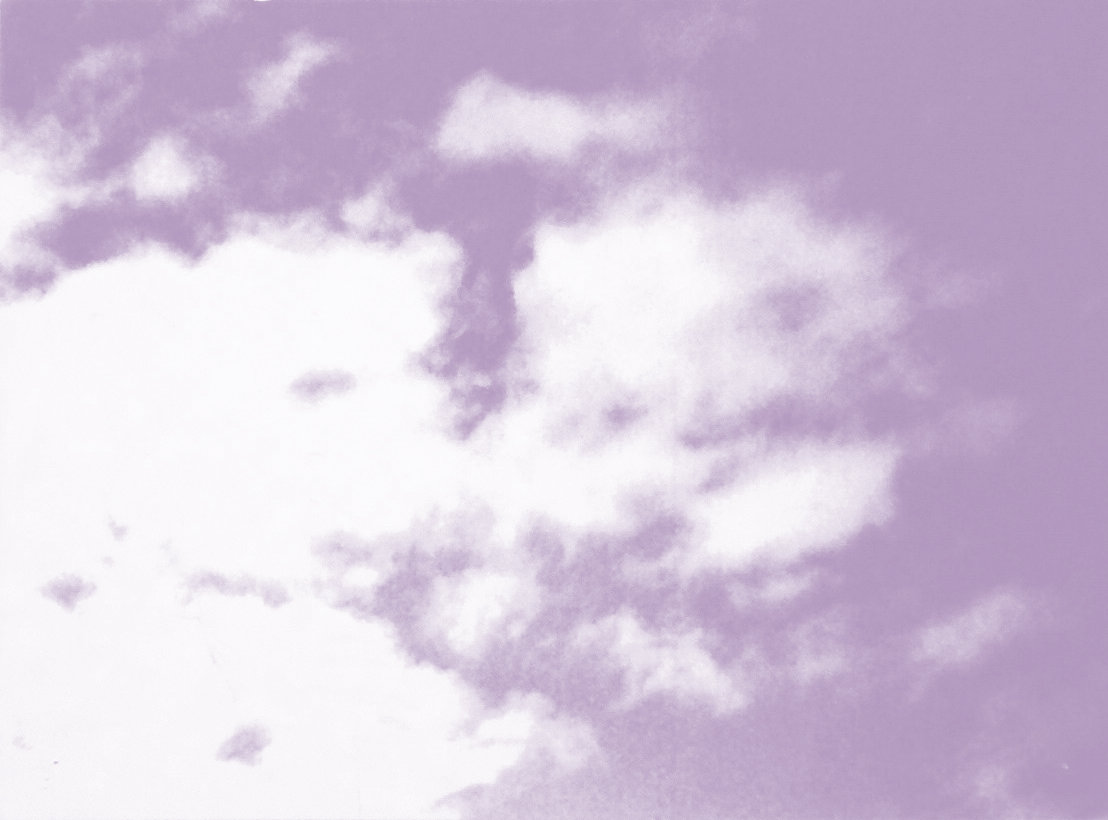
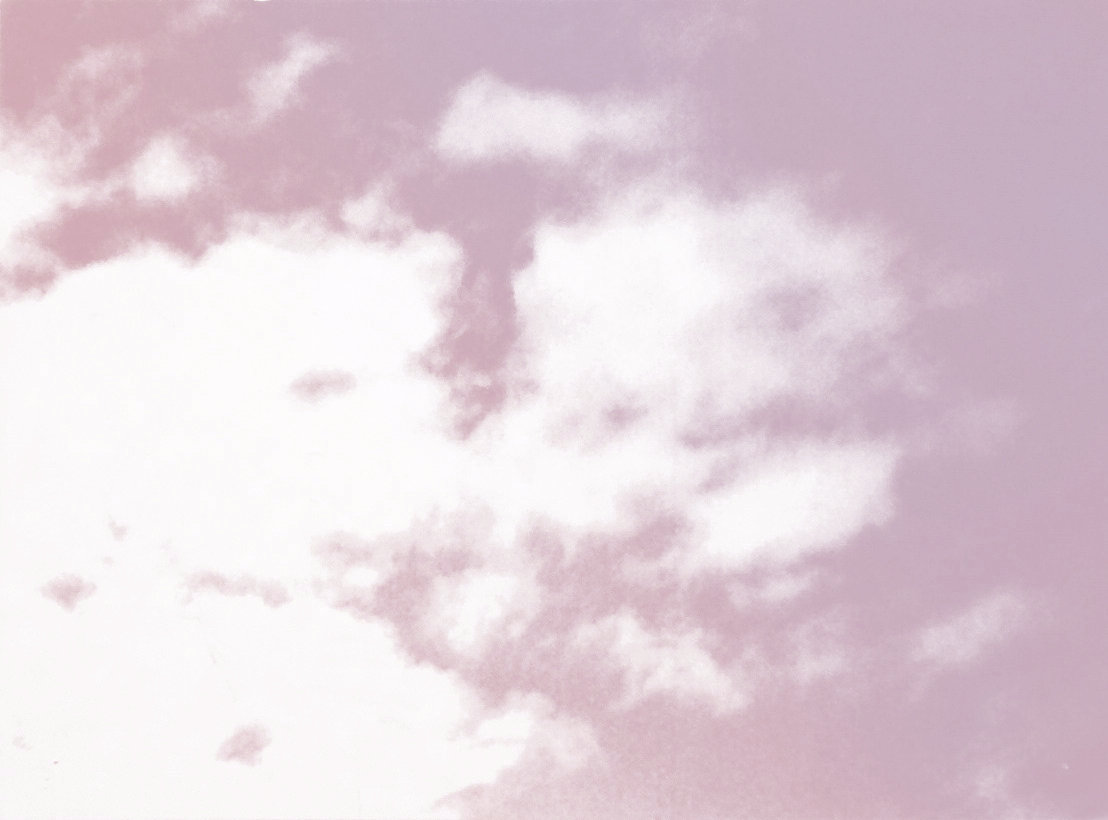
remove moon calendar

Changed region(s): [[0.0, 0.0, 0.3069, 0.3354], [0.3989, 0.3963, 0.4603, 0.4878], [0.9819, 0.9451, 1.0, 0.9756]]

diff --git a/styles/globals.css b/styles/globals.css
@@ -14,7 +14,7 @@
 :root{
 
   --ldl: #f5ff00;
-  --lvm: #7722ff;
+  --lvm: #1400aa;
   
 }
 
@@ -196,13 +196,21 @@ audio::-webkit-media-controls-toggle-closed-captions-button{
 
 @keyframes moon {
 
-    0%  {width: 0; height: 0; border: 3px solid blueviolet;}
+    0%  {width: 0; height: 0; border: 3px solid black;}
     100% {width: 10rem; height: 10rem;}
 }
 
 @keyframes fadeout {
   0%   {opacity:1}
   100% {opacity:0}
+}
+
+@keyframes fancybg {
+  0%  {filter: hue-rotate(0deg)}
+  25%  {filter: hue-rotate(30deg)}
+  50%  {filter: hue-rotate(0deg)}
+  75%  {filter: hue-rotate(-30deg)}
+  100%  {filter: hue-rotate(0deg)}
 }
 
 

diff --git a/styles/Home.module.css b/styles/Home.module.css
@@ -11,6 +11,7 @@
   background: url(/cloud_background.jpg);
   background-repeat: no-repeat;
   background-size: cover;
+  animation: fancybg 5s;
 }
 
 .background_fix_ldl {
@@ -19,6 +20,7 @@
   height: 110vh;
   background: url(/background_retro.jpg);
   background-size: 100%;
+  animation: fancybg 5s;
 }
 
 @media only screen and (max-width:799px){

diff --git a/pages/index.js b/pages/index.js
@@ -21,7 +21,6 @@ export default function Home() {
       <main className={styles.main}>
         <StartContent>
 
-            <Moon color="var(--lvm)"/>
             <Intro>
               <h1>Lisa von Mond</h1>
               <p>Ambient dub, dreamtunes, slow wave<br></br>sound production, composition and research</p>

diff --git a/pages/lisadelune.js b/pages/lisadelune.js
@@ -21,7 +21,6 @@ export default function LisaDeLune() {
 
 
       <StartContent>
-          <Moon color="var(--ldl)"/>
           <Intro>
               <h1>Lisa de Lune</h1>
               <p>Full moon techno</p>

diff --git a/utils/moon-calendar.js b/utils/moon-calendar.js
@@ -119,5 +119,6 @@ export const mooncalendar = [
     {date:"9/10/2022",
     state:"full moon",
     },
+    
 
 ]
